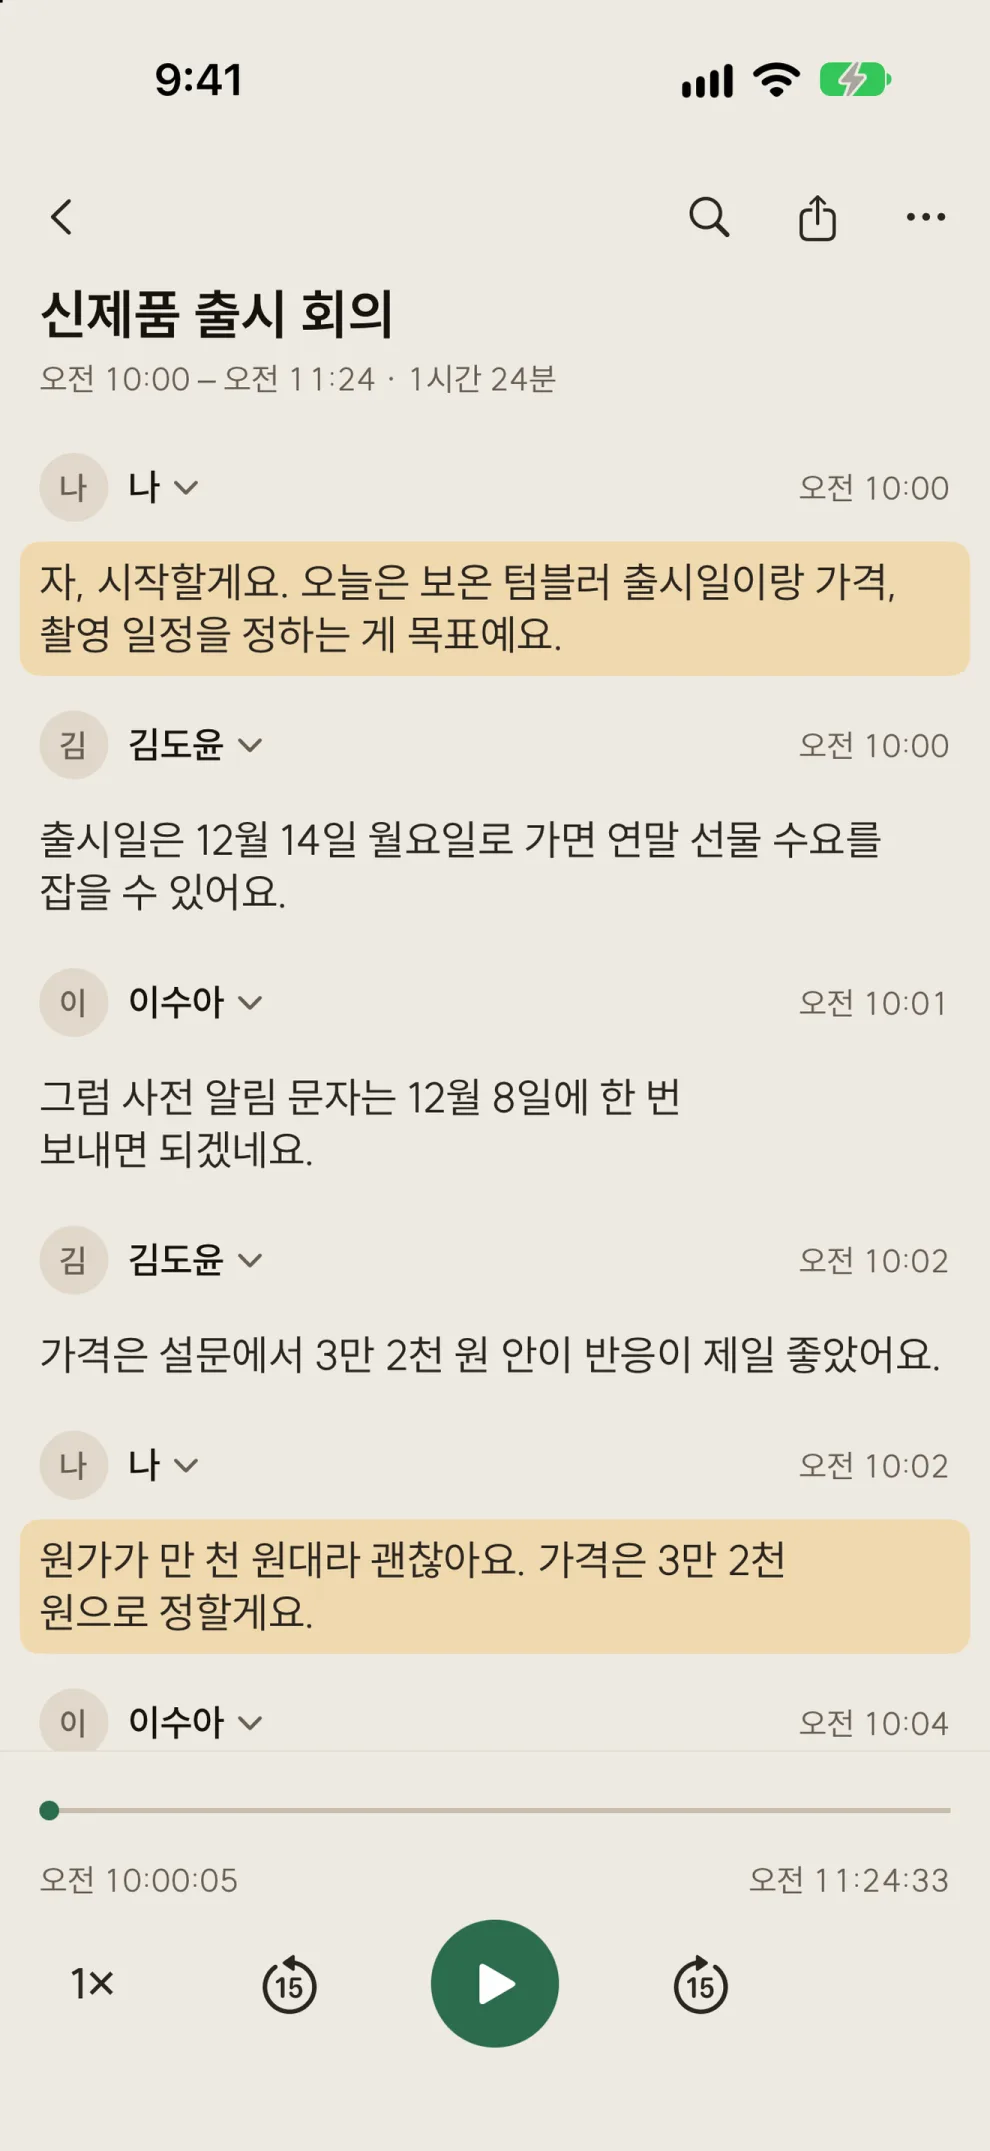
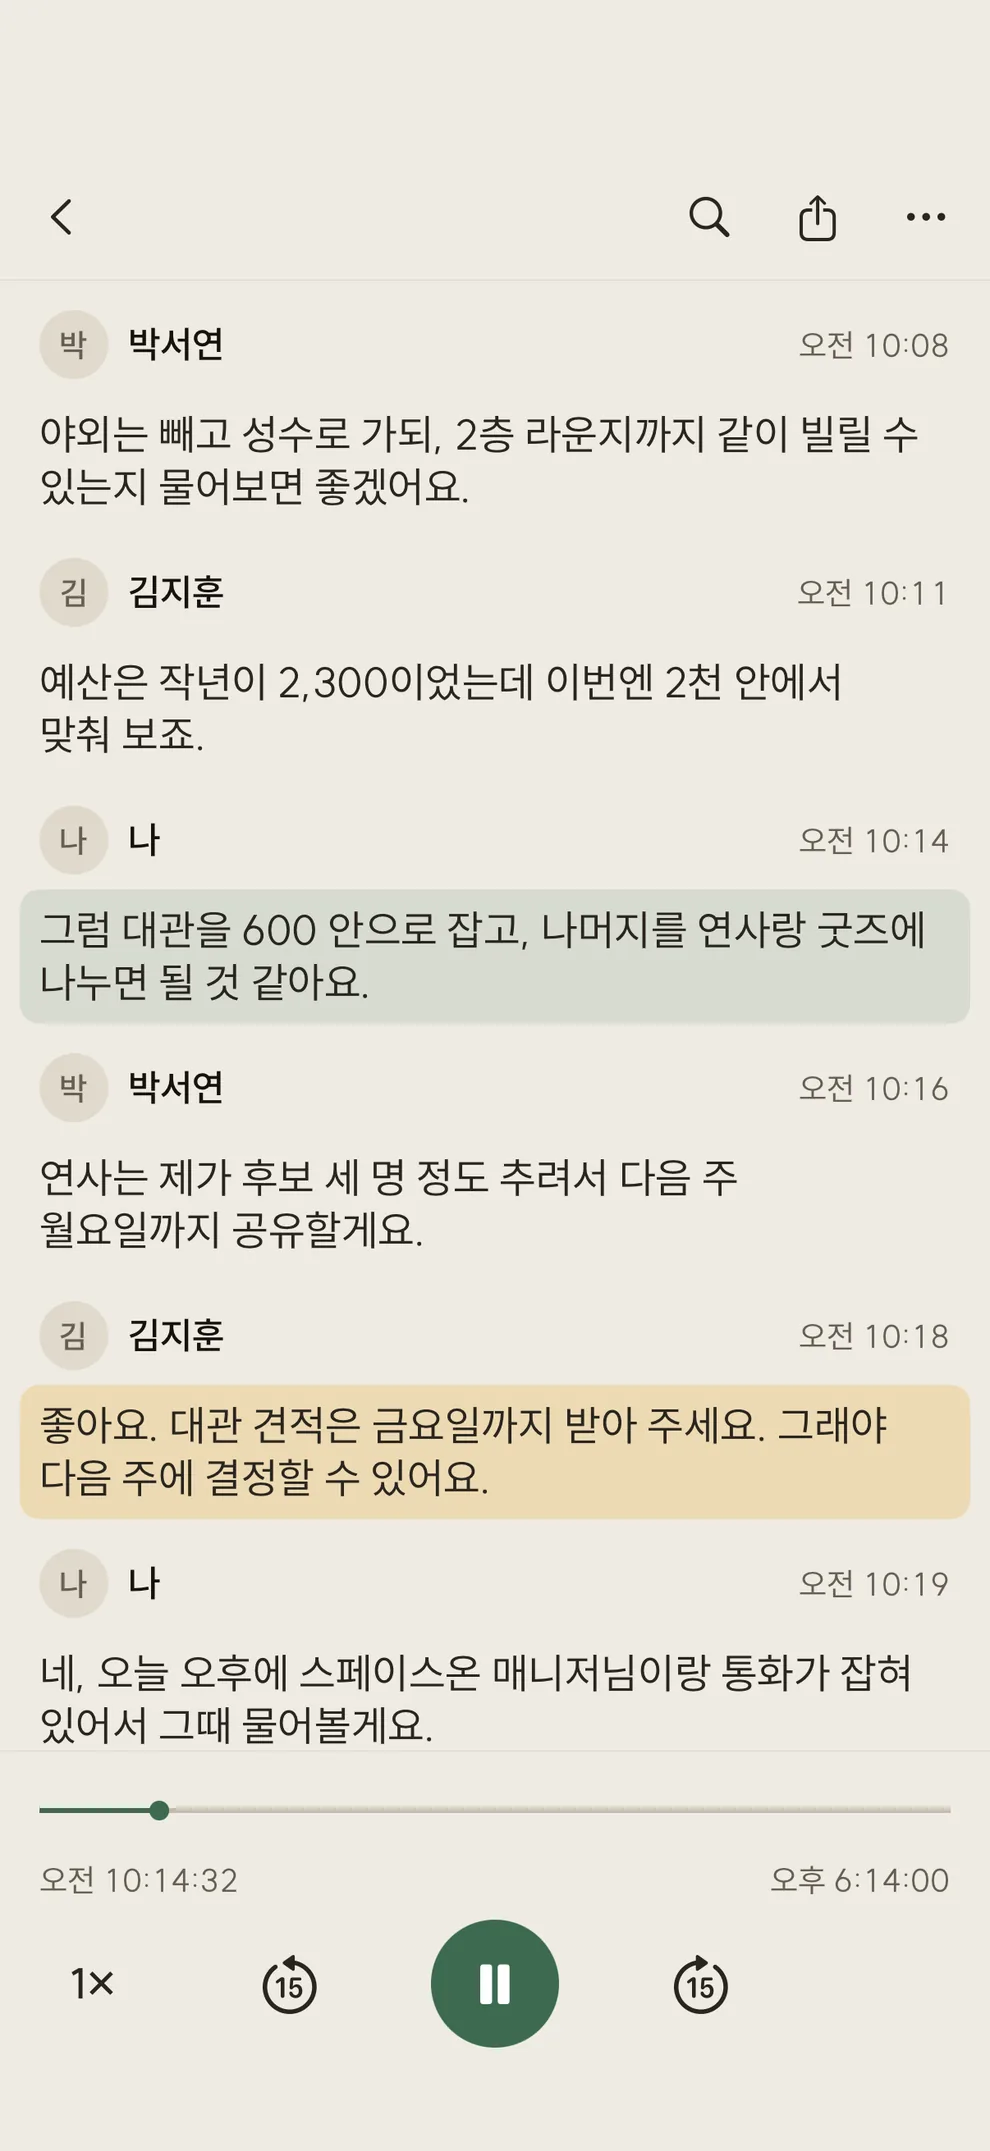
하루박스 한국어 캡처 9장으로 교체: 샘플 이름 정리, 요약 주제 위계, 받아쓰기·확인 카드·검색·설정 행 추가

diff --git a/src/i18n.ts b/src/i18n.ts
@@ -334,10 +334,14 @@ export const HARUBOX_PAGE: Record<HaruboxLang, { title: string; tagline: string;
     lead: '아침에 녹음 켜 두고 폰은 주머니에. 퇴근길에 열어 보면 오늘 오간 말이 글로 정리돼 있어요. 회의든 수업이든 통화든 하루 종일 켜 둬도 안 끊기고, 받아쓰기랑 요약은 폰 안에서 끝나요.',
     rows: [
       { shot: 'record', label: '녹음', title: '화면을 꺼도 하루 종일 녹음해요', body: '녹음 버튼을 한 번 누르면 다른 앱을 써도 계속 녹음해요. 시간 한도가 없고, 전화나 알람에 끊기면 끝난 뒤 저절로 이어서 녹음해요. 녹음하면서 북마크와 메모도 남겨요.', alt: '녹음 중 화면' },
-      { shot: 'conversation', label: '받아쓰기', title: '받아쓴 대화를 구간별로 봐요', body: '받아쓰기는 iPhone 안에서 해요. 구간마다 시간과 말한 사람이 나뉘어 보이고, 문장을 누르면 그 자리부터 다시 들어요.', alt: '구간별 시간과 화자가 나뉜 받아쓰기 화면' },
-      { shot: 'summary', label: '요약', title: '요약과 할 일을 정리해요', body: '녹음마다 요약, 주제, 다음 할 일을 정리해요. 할 일은 미리알림에, 일정은 캘린더에 넣고, 넣기 전에 항목마다 확인해요.', alt: '요약과 할 일 화면' },
+      { shot: 'conversation', label: '하루 구간', title: '하루를 대화 구간으로 나눠요', body: '말이 오간 구간마다 시작 시각, 길이, 말한 사람, 한 줄 요약이 붙어요. 조용했던 시간과 전화로 끊긴 시간도 표시돼요.', alt: '구간별 시각과 화자가 나뉜 하루 녹음 화면' },
+      { shot: 'transcript', label: '받아쓰기', title: '누가 무슨 말을 했는지 문장으로 봐요', body: '받아쓰기는 iPhone 안에서 해요. 문장마다 말한 사람과 시각이 붙고, 문장을 누르면 그 자리부터 다시 들어요. 중요한 문장에는 형광펜을 칠해요.', alt: '화자와 시각이 붙은 받아쓴 문장 화면' },
+      { shot: 'summary', label: '요약', title: '주제별로 요점을 정리해요', body: '녹음마다 한 줄 요약, 주제별 요점, 다음 할 일을 정리해요. 요약도 iPhone 안의 Apple Intelligence로 만들어요.', alt: '주제별 요약 화면' },
+      { shot: 'review', label: '미리알림·캘린더', title: '할 일과 일정은 확인하고 넣어요', body: '요약에서 찾은 할 일은 미리알림에, 일정은 캘린더에 넣어요. 저절로 들어가지 않고, 체크한 항목만 들어가요.', alt: '미리알림과 캘린더에 넣기 전 확인 화면' },
       { shot: 'speakers', label: '화자', title: '화자 이름을 바꾸고 합쳐요', body: '나뉜 화자에 실제 이름을 붙이고, 같은 사람이 둘로 나뉘었으면 합쳐요. 문장별로 고치는 것도 돼요.', alt: '화자 목록 화면' },
-      { shot: 'list', label: '녹음 목록', title: '모든 녹음에서 검색해요', body: '모든 녹음에서 검색하고, 찾은 문장을 누르면 그 자리부터 들어요. 받아쓰기는 녹음이 끝나면 바로, 또는 충전 중일 때만 하도록 고를 수 있어요.', alt: '녹음 목록 화면' },
+      { shot: 'search', label: '검색', title: '모든 녹음에서 말을 찾아요', body: '찾는 말이 나온 문장을 녹음별로 모아 보여 줘요. 문장을 누르면 그 자리부터 들어요.', alt: '검색 결과 화면' },
+      { shot: 'list', label: '녹음 목록', title: '날짜별로 녹음이 쌓여요', body: '녹음마다 제목과 요약 첫 줄이 보여요. 받아쓰는 중이면 진행률이, 충전을 기다리면 그 표시가 붙어요. 중요한 녹음은 별표로 남겨요.', alt: '녹음 목록 화면' },
+      { shot: 'settings', label: '설정', title: '받아쓰는 때와 보관 기간을 정해요', body: '받아쓰기는 녹음이 끝나면 바로, 또는 충전 중일 때만 하도록 고를 수 있어요. 녹음은 정한 기간이 지나면 지우고, 중요 표시한 녹음은 남겨요.', alt: '받아쓰기 시점과 보관 기간 설정 화면' },
     ],
     requirements: '모든 기능이 무료예요. 시간 제한도 인앱 구매도 없어요. iOS 26 이상, 요약에는 Apple Intelligence가 필요해요. Apple Watch 녹음은 watchOS 26 이상.',
   },
